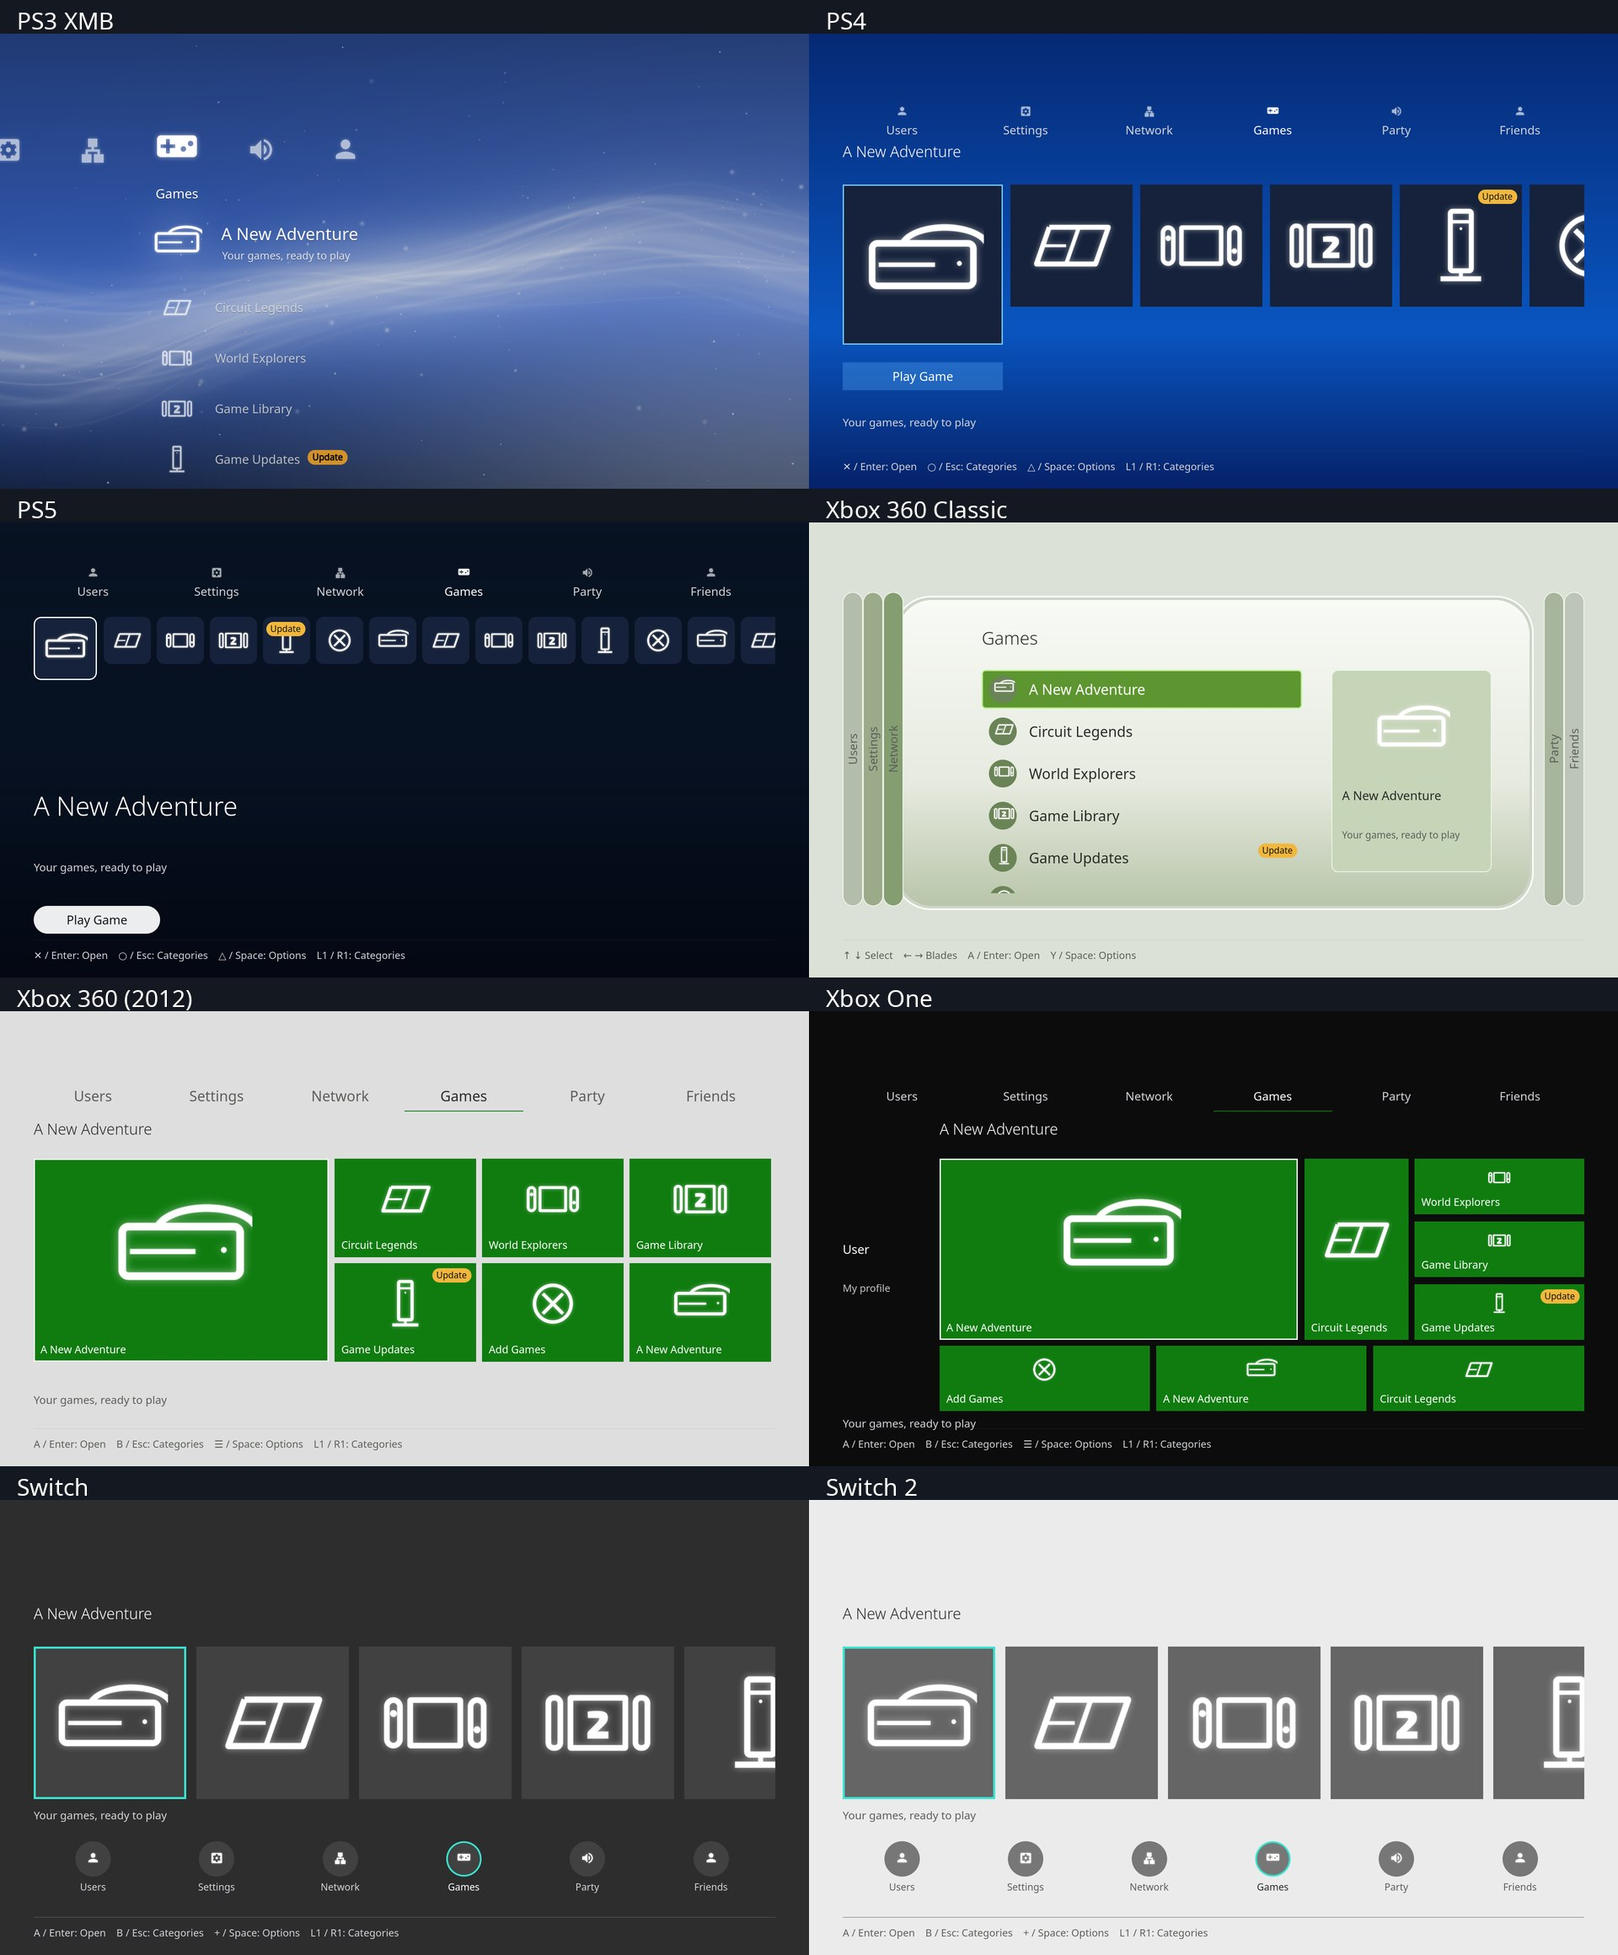
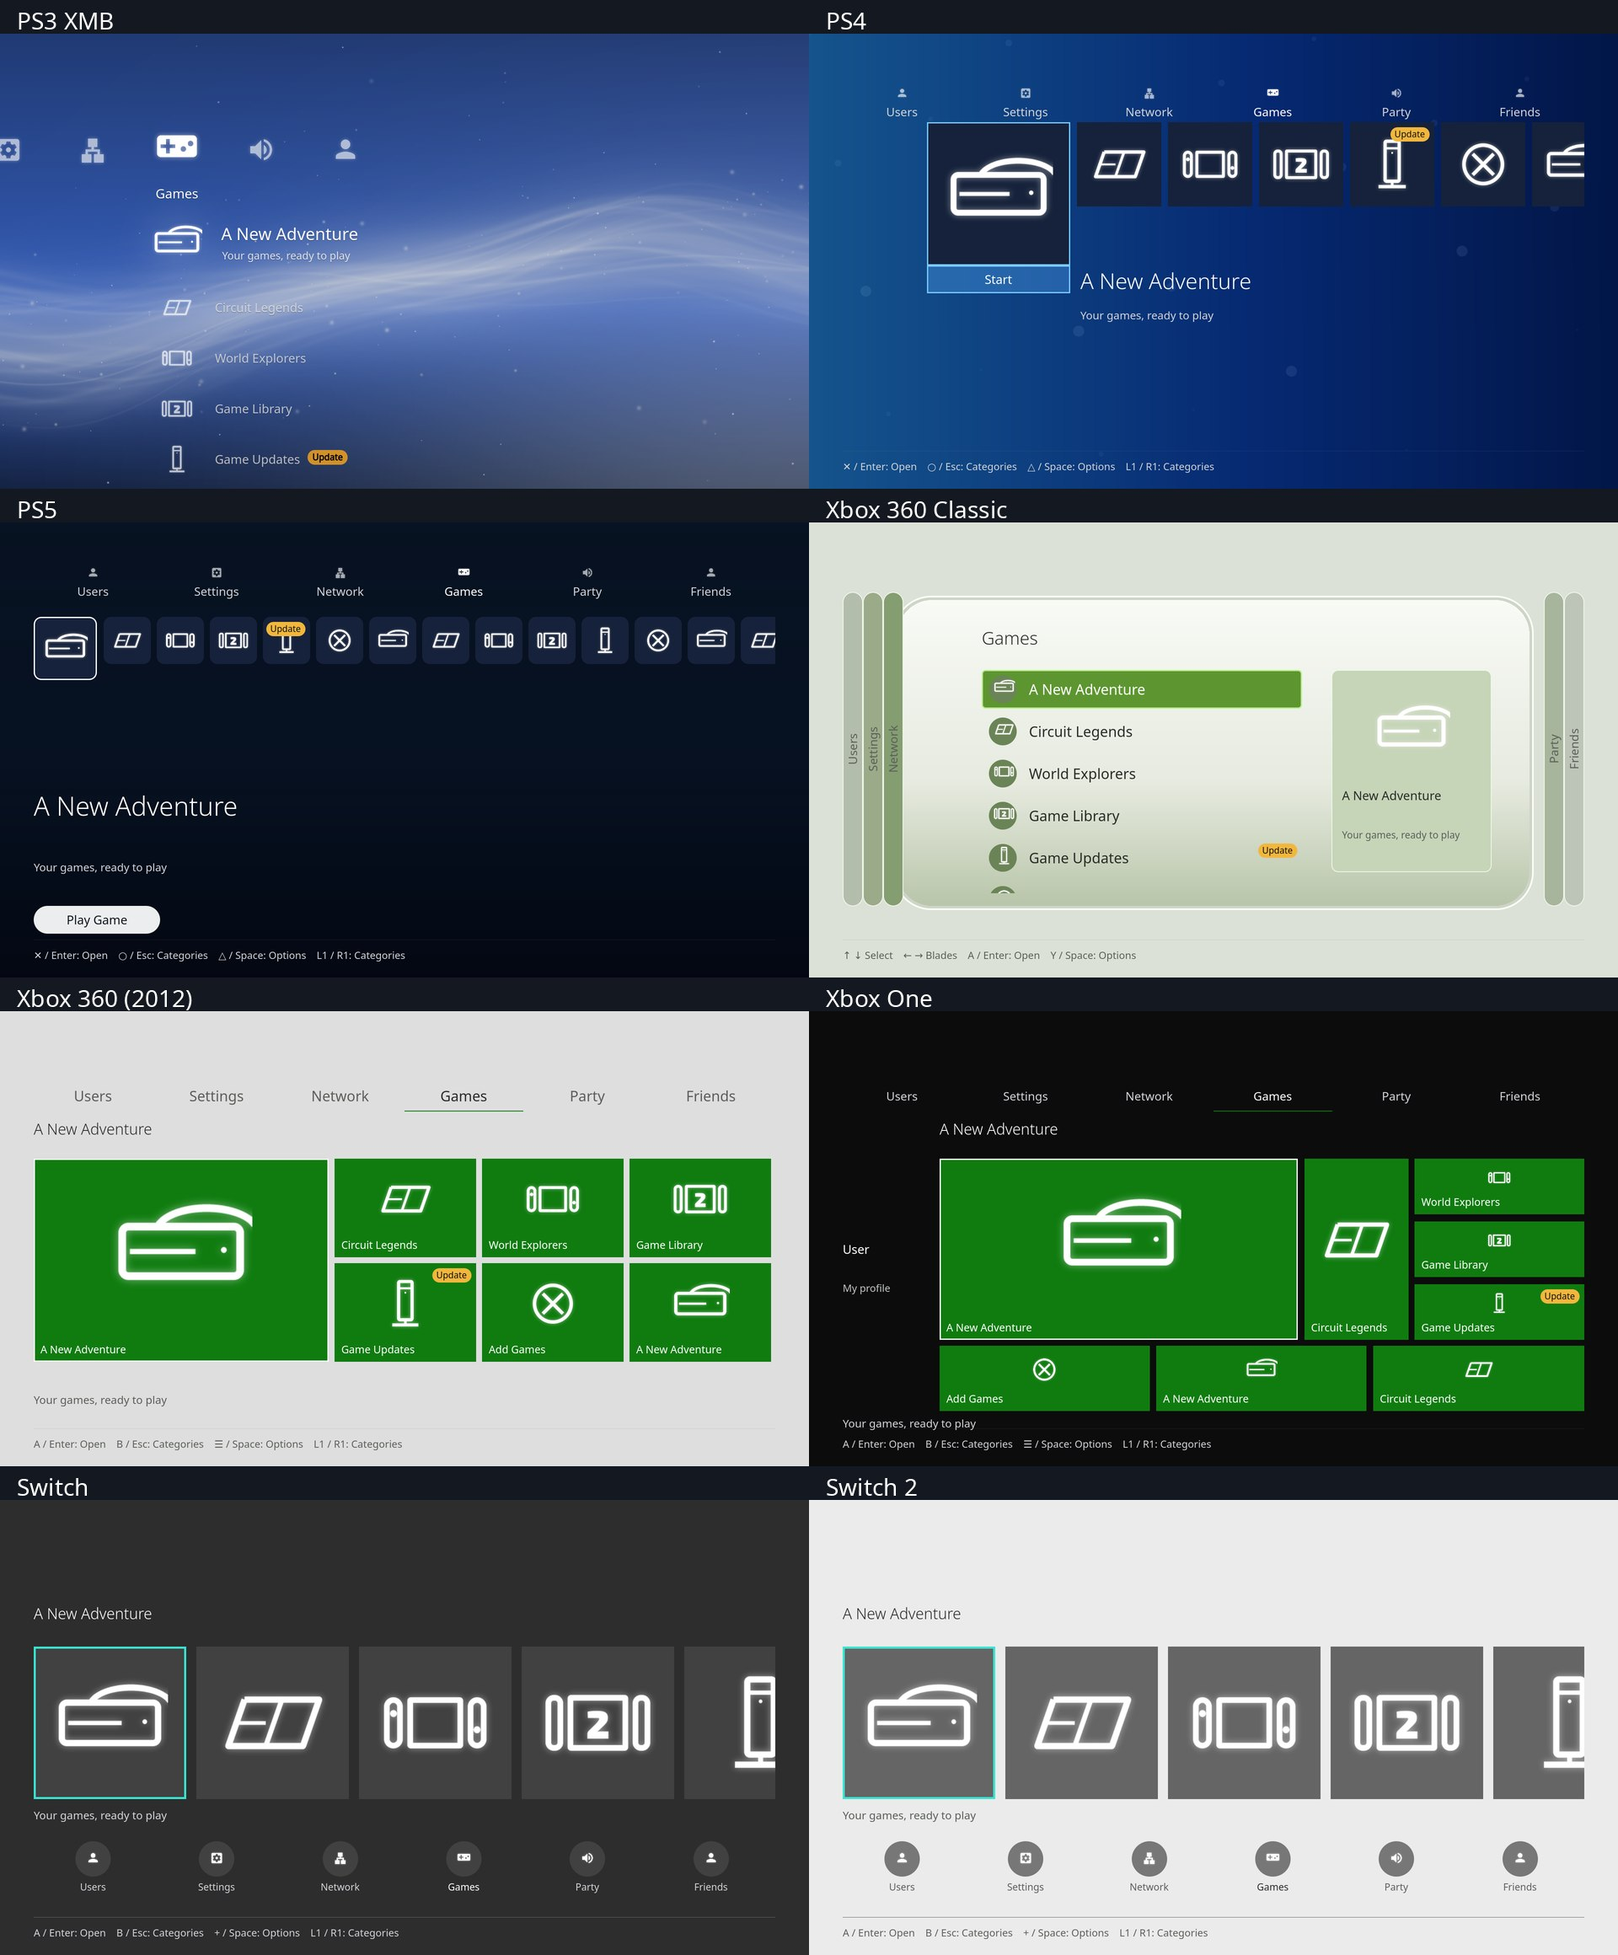
Polish PS4 geometry, running-game entries and native focus

Changed region(s): [[0.5, 0.0, 1.0, 0.2483]]

diff --git a/uscl-shell/qml/ConsoleHome.qml b/uscl-shell/qml/ConsoleHome.qml
@@ -8,6 +8,7 @@ Item {
     required property var navigation
     property string userName: qsTr("User")
     property string avatar: ""
+    property bool animate: true
     signal navigate(string button)
     ThemePalette { id: themeStyle; theme: home.theme }
     readonly property bool nintendo: themeStyle.nintendo
@@ -76,9 +77,26 @@ Item {
     Rectangle {
         anchors.fill: parent; visible: themeStyle.ps4
         gradient: Gradient {
-            GradientStop { position: 0; color: "#062974" }
-            GradientStop { position: .65; color: "#0955c0" }
-            GradientStop { position: 1; color: "#062168" }
+            orientation: Gradient.Horizontal
+            GradientStop { position: 0; color: "#15548d" }
+            GradientStop { position: .55; color: "#062972" }
+            GradientStop { position: 1; color: "#021647" }
+        }
+    }
+    Repeater {
+        model: themeStyle.ps4 ? 24 : 0
+        delegate: Rectangle {
+            id: bubble
+            required property int index
+            readonly property real baseY: (index * 197) % 1080
+            x: (index * 283) % 1920; y: baseY
+            width: 6 + index % 5 * 5; height: width; radius: width / 2
+            color: "#b5dfff"; opacity: .04 + .015 * (index % 5); antialiasing: true
+            SequentialAnimation on y {
+                running: home.visible && home.animate; loops: Animation.Infinite
+                NumberAnimation { from: bubble.baseY; to: bubble.baseY - 70; duration: 19000 + bubble.index * 173; easing.type: Easing.InOutSine }
+                NumberAnimation { from: bubble.baseY - 70; to: bubble.baseY; duration: 19000 + bubble.index * 173; easing.type: Easing.InOutSine }
+            }
         }
     }
     Image {
@@ -113,9 +131,10 @@ Item {
     Item {
         id: categories
         x: home.margin
-        y: home.nintendo ? 810 : themeStyle.ps5 ? 100 : 165
+        y: home.nintendo ? 810 : themeStyle.ps5 ? 100 : themeStyle.ps4 ? (home.categoryFocus ? 300 : 122) : 165
         width: home.width - 2 * home.margin
-        height: home.nintendo ? 118 : themeStyle.blades ? 746 : 74
+        height: home.nintendo ? 118 : themeStyle.blades ? 746 : themeStyle.ps4 && home.categoryFocus ? 150 : 74
+        Behavior on y { NumberAnimation { duration: 220; easing.type: Easing.OutCubic } }
         Repeater {
             model: home.navigation.cats
             delegate: Rectangle {
@@ -135,7 +154,7 @@ Item {
                 Behavior on x { NumberAnimation { duration: 220; easing.type: Easing.OutCubic } }
                 Image {
                     visible: themeStyle.ps4 || themeStyle.ps5
-                    anchors.horizontalCenter: parent.horizontalCenter; y: 0; width: 42; height: 42
+                    anchors.horizontalCenter: parent.horizontalCenter; y: 0; width: themeStyle.ps4 && home.categoryFocus && category.selected ? 80 : 42; height: width
                     source: category.modelData.icon || ""; fillMode: Image.PreserveAspectFit; mipmap: true
                     opacity: category.selected ? 1 : .65
                 }
@@ -145,9 +164,10 @@ Item {
                     color: category.selected ? themeStyle.accent : "transparent"
                 }
                 Rectangle {
+                    objectName: "categoryFocusRing" + category.index
                     visible: home.nintendo; anchors.horizontalCenter: parent.horizontalCenter
                     width: 84; height: 84; radius: 42
-                    color: themeStyle.lightSwitch ? "#777777" : "#414141"; border.width: category.selected ? 4 : 0; border.color: themeStyle.accent
+                    color: themeStyle.lightSwitch ? "#777777" : "#414141"; border.width: category.selected && home.categoryFocus ? 4 : 0; border.color: themeStyle.accent
                     Image { anchors.centerIn: parent; width: 48; height: 48; source: category.modelData.icon || ""; fillMode: Image.PreserveAspectFit; mipmap: true }
                 }
                 Text {
@@ -160,7 +180,7 @@ Item {
                     font.pixelSize: home.nintendo ? 23 : themeStyle.metro ? 34 : 28
                     y: home.nintendo ? 86 : 0
                     horizontalAlignment: Text.AlignHCenter; elide: Text.ElideRight
-                    anchors.verticalCenterOffset: home.nintendo ? 49 : themeStyle.ps4 || themeStyle.ps5 ? 27 : 0
+                    anchors.verticalCenterOffset: home.nintendo ? 49 : themeStyle.ps4 && home.categoryFocus ? 65 : themeStyle.ps4 || themeStyle.ps5 ? 27 : 0
                 }
                 MouseArea {
                     enabled: !themeStyle.blades || !category.selected
@@ -171,11 +191,12 @@ Item {
         }
     }
     Text {
-        x: themeStyle.blades ? home.margin + 330 : themeStyle.one ? home.margin + 230 : home.margin
-        y: themeStyle.ps5 ? 630 : home.nintendo ? 245 : themeStyle.blades ? 245 : 255
+        x: themeStyle.ps4 ? home.margin + 564 : themeStyle.blades ? home.margin + 330 : themeStyle.one ? home.margin + 230 : home.margin
+        y: themeStyle.ps5 ? 630 : themeStyle.ps4 ? 550 : home.nintendo ? 245 : themeStyle.blades ? 245 : 255
         width: home.width - x - home.margin - 80; height: themeStyle.ps5 ? 156 : 76
         text: themeStyle.blades && home.navigation.cats[home.navigation.cat] ? home.navigation.cats[home.navigation.cat].name : home.current ? home.current.title : qsTr("No items available")
-        color: themeStyle.text; font.pixelSize: themeStyle.ps5 ? 62 : themeStyle.blades ? 42 : 36
+        color: themeStyle.text; font.pixelSize: themeStyle.ps5 ? 62 : themeStyle.ps4 ? 52 : themeStyle.blades ? 42 : 36
+        visible: !themeStyle.ps4 || !home.categoryFocus
         font.weight: Font.Light; elide: Text.ElideRight
         maximumLineCount: themeStyle.ps5 ? 2 : 1; wrapMode: Text.Wrap
     }
@@ -183,10 +204,12 @@ Item {
         id: shelf
         objectName: "softwareShelf"
         x: themeStyle.blades ? home.margin + 330 : themeStyle.one ? home.margin + 230 : home.margin
-        y: themeStyle.ps5 ? 216 : home.nintendo ? 340 : 350
+        y: themeStyle.ps5 ? 216 : themeStyle.ps4 ? (home.categoryFocus ? 620 : 202) : home.nintendo ? 340 : 350
         width: themeStyle.blades ? 760 : home.width - x - home.margin
         height: themeStyle.ps5 ? 170 : home.nintendo ? 390 : themeStyle.one ? 605 : 530
         clip: true
+        opacity: themeStyle.ps4 && home.categoryFocus ? .55 : 1
+        Behavior on y { NumberAnimation { duration: 220; easing.type: Easing.OutCubic } }
         WheelHandler {
             onWheel: function(event) {
                 home.categoryFocus = false
@@ -206,9 +229,9 @@ Item {
                 readonly property bool inView: home.grid ? Math.floor(index / home.groupSize) === Math.floor(home.selected / home.groupSize) : x + width > 0 && x < shelf.width && y + height > 0 && y < shelf.height
                 visible: inView
                 readonly property int delta: index - home.selected
-                width: themeStyle.blades ? shelf.width : home.grid ? metroRect.width : home.nintendo ? 362 : themeStyle.ps5 ? (selected ? 150 : 112) : (selected ? 380 : 290)
+                width: themeStyle.blades ? shelf.width : home.grid ? metroRect.width : home.nintendo ? 362 : themeStyle.ps5 ? (selected ? 150 : 112) : (selected && !home.categoryFocus ? 340 : 200)
                 height: themeStyle.blades ? 92 : home.grid ? metroRect.height : home.nintendo ? 362 : themeStyle.ps5 ? width : width
-                x: themeStyle.blades ? 0 : home.grid ? metroRect.x : themeStyle.ps5 ? (delta < 0 ? delta * 126 : delta === 0 ? 0 : 166 + (delta - 1) * 126) : home.nintendo ? delta * 386 : delta < 0 ? delta * 308 : delta === 0 ? 0 : 398 + (delta - 1) * 308
+                x: themeStyle.blades ? 0 : home.grid ? metroRect.x : themeStyle.ps5 ? (delta < 0 ? delta * 126 : delta === 0 ? 0 : 166 + (delta - 1) * 126) : home.nintendo ? delta * 386 : 200 + (delta < 0 ? delta * 216 : delta === 0 ? 0 : (home.categoryFocus ? 216 : 356) + (delta - 1) * 216)
                 y: themeStyle.blades ? delta * 100 : home.grid ? metroRect.y : 8
                 radius: themeStyle.ps5 ? 18 : themeStyle.blades ? 9 : 0
                 color: themeStyle.blades ? (selected ? "#5d9630" : "transparent") : themeStyle.xbox ? "#107c10" : home.nintendo ? (themeStyle.lightSwitch ? "#656565" : "#414141") : "#16223b"
@@ -267,19 +290,20 @@ Item {
         Text { x: 25; y: 375; width: parent.width - 50; height: 90; text: home.current ? (home.current.desc || "") : ""; color: themeStyle.muted; font.pixelSize: 23; wrapMode: Text.Wrap; maximumLineCount: 3; elide: Text.ElideRight }
     }
     Text {
-        x: themeStyle.blades ? home.margin + 330 : home.margin
-        visible: !themeStyle.blades
-        y: themeStyle.ps5 ? 800 : home.nintendo ? 730 : themeStyle.one ? 960 : 904
+        x: themeStyle.ps4 ? home.margin + 564 : themeStyle.blades ? home.margin + 330 : home.margin
+        visible: !themeStyle.blades && (!themeStyle.ps4 || !home.categoryFocus)
+        y: themeStyle.ps4 ? 650 : themeStyle.ps5 ? 800 : home.nintendo ? 730 : themeStyle.one ? 960 : 904
         width: home.width - x - home.margin; height: themeStyle.one ? 30 : 70
         text: home.current ? (home.current.desc || "") : ""
         color: themeStyle.muted; font.pixelSize: 26; wrapMode: Text.Wrap; maximumLineCount: 2; elide: Text.ElideRight
     }
     Rectangle {
-        visible: themeStyle.ps5 || themeStyle.ps4
-        x: home.margin; y: themeStyle.ps5 ? 910 : 780; width: themeStyle.ps5 ? 300 : 380; height: 66
+        visible: themeStyle.ps5 || (themeStyle.ps4 && !home.categoryFocus)
+        x: themeStyle.ps4 ? home.margin + 200 : home.margin; y: themeStyle.ps5 ? 910 : 550; width: themeStyle.ps5 ? 300 : 340; height: 66
         radius: themeStyle.ps5 ? 33 : 0
         color: themeStyle.ps5 ? "#ecffffff" : "#604ca0f0"
-        Text { anchors.centerIn: parent; text: home.current && home.current.console ? qsTr("Play Game") : qsTr("Open"); color: themeStyle.ps5 ? "#111820" : "white"; font.pixelSize: 29 }
+        border.width: themeStyle.ps4 ? 3 : 0; border.color: themeStyle.accent
+        Text { anchors.centerIn: parent; text: home.current && home.current.running ? qsTr("Resume Game") : home.current && home.current.console ? (themeStyle.ps4 ? qsTr("Start") : qsTr("Play Game")) : qsTr("Open"); color: themeStyle.ps5 ? "#111820" : "white"; font.pixelSize: 29 }
         MouseArea { anchors.fill: parent; enabled: !!home.current; onClicked: home.navigate("accept") }
     }
     Rectangle { x: home.margin; y: 990; width: home.width - home.margin * 2; height: 1; color: themeStyle.nintendo ? "#666666" : "#30757575" }

diff --git a/uscl-shell/qml/Main.qml b/uscl-shell/qml/Main.qml
@@ -827,8 +827,9 @@ Window {
         // the game that keeps running behind the home screen, first, like the PS3's
         if (launcher.running && runningGame) {
             let g = runningGame
-            gameItems.push({ title: g.title, desc: qsTr("Running"), icon: g.icon || ic("it_games"), wide: !!g.icon && wideIcon(g), badge: qsTr("Running"),
+            gameItems.push({ title: g.title, desc: qsTr("Running"), icon: g.icon || ic("it_games"), wide: !!g.icon && wideIcon(g), badge: qsTr("Running"), running: true, console: g.console || "PS3",
                              pic: g.pic || "",
+                             info: function() { dialog.show(qsTr("Information"), gameInfo(g)) },
                              action: resumeGame,
                              options: function() { return [{ title: qsTr("Resume Game"), action: resumeGame },
                                                            { title: qsTr("Close Game"), action: closeGame }] } })
@@ -844,8 +845,12 @@ Window {
         // Modern dashboards show games directly in their software strip. The XMB
         // retains its original console folders; both paths use the same game actions.
         if (activeTheme !== "ps3") {
-            gameItems = gameItems.filter(function(item) { return item.badge === qsTr("Running") })
-            for (var gameIndex = 0; gameIndex < games.count; gameIndex++) gameItems.push(gameItem(games.get(gameIndex)))
+            gameItems = gameItems.filter(function(item) { return !!item.running })
+            for (var gameIndex = 0; gameIndex < games.count; gameIndex++) {
+                var listedGame = games.get(gameIndex)
+                if (launcher.running && runningGame && listedGame.serial === runningGame.serial) continue
+                gameItems.push(gameItem(listedGame))
+            }
         }
         var pending = Object.keys(gameUpdates.available).length
         // the library-wide items follow the consoles
@@ -1097,6 +1102,7 @@ Window {
         Item {
             id: stage
             objectName: "consoleStage"
+            clip: true
             readonly property real s: Math.min(root.width / 1920, root.height / 1080)
             width: 1920; height: 1080
             x: (root.width - width * s) / 2
@@ -1151,6 +1157,7 @@ Window {
                 id: dashboard
                 anchors.fill: parent
                 theme: root.activeTheme
+                animate: root.active && !launcher.running
                 userName: system.onlineName || online.steamName || qsTr("User")
                 avatar: root.avatarUrl(prefs.avatar)
                 navigation: xmb

diff --git a/uscl-shell/tests/tst_themes.qml b/uscl-shell/tests/tst_themes.qml
@@ -118,6 +118,12 @@ Item {
                 verify(tile.border.width > 0)
                 verify(tile.border.color.toString() !== tile.color.toString())
             }
+            if (home.nintendo) {
+                var ring = findChild(home, "categoryFocusRing" + navigation.cat)
+                verify(ring !== null); compare(ring.border.width, 0)
+                home.input("up"); compare(ring.border.width, 4)
+                home.input("accept"); compare(ring.border.width, 0)
+            }
         }
         function test_mouse_data() { return test_themes_data() }
         function test_mouse(data) {

diff --git a/uscl-shell/tools/tst_theme_previews.qml b/uscl-shell/tools/tst_theme_previews.qml
@@ -8,7 +8,7 @@ Item {
     width: 1920; height: 1080
     Background { anchors.fill: parent; visible: home.theme === "ps3"; tint: "#3c6cd8"; running: false; shade: .15 }
     Xmb { id: nav; anchors.fill: parent; visible: home.theme === "ps3"; cat: 3 }
-    ConsoleHome { visible: theme !== "ps3"; id: home; anchors.fill: parent; navigation: nav; theme: "ps4" }
+    ConsoleHome { visible: theme !== "ps3"; id: home; anchors.fill: parent; navigation: nav; animate: false; theme: "ps4" }
     TestCase {
         name: "Capture"
         when: windowShown

diff --git a/docs/CONSOLE-THEMES.md b/docs/CONSOLE-THEMES.md
@@ -89,7 +89,7 @@ network sessions or update installation. Final visual matching, loudness/timbre 
 behaviour need in-person checks on the target display and OS. These are inspired implementations, not
 pixel-identical console system software.
 
-Visual references consulted: [PS3 XMB](https://www.xtremeps3.com/2007/11/07/ps3-firmware-20-available-to-download-tomorrow/),
+Visual references consulted: [PS4 system software 4.00 UI](https://blog.de.playstation.com/2016/09/12/ps4-systemsoftware-update-4-00-ab-morgen-verfgbar/), [PS3 XMB](https://www.xtremeps3.com/2007/11/07/ps3-firmware-20-available-to-download-tomorrow/),
 [Xbox 360 blades](https://digiex.net/threads/use-the-xbox-360-blades-dashboard-version-1888-on-a-jtag.6802/),
 [PS5 UI](https://blog.playstation.com/2020/10/15/first-look-playstation-5s-next-generation-user-experience/),
 and [Nintendo Switch 2 HOME/settings](https://support.nintendo.com/hk/switch2/mastery/accessibility/index.html).
